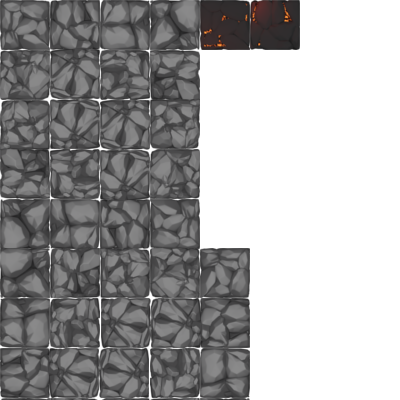
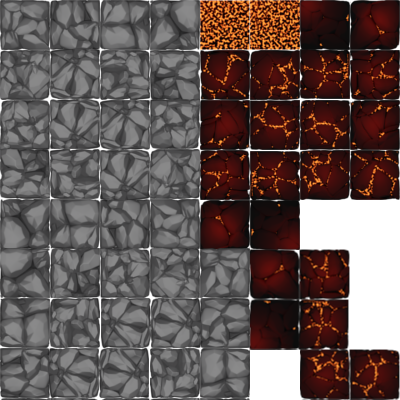
changement de fichier d'image et de carte + event

diff --git a/Spellington/src/ca/qc/bdeb/info204/spellington/gamestates/PlayState.java b/Spellington/src/ca/qc/bdeb/info204/spellington/gamestates/PlayState.java
@@ -26,6 +26,7 @@ public class PlayState extends BasicGameState {
     private TiledMap map;
     private Spellington spellington;
     private Tile[][] mapCollision;
+    private Tile[][] mapEvent;
 
     public static final Vector2D GRAV_FORCE = new Vector2D(0, 0.001f);
 
@@ -36,7 +37,7 @@ public class PlayState extends BasicGameState {
     public void init(GameContainer gc, StateBasedGame game) throws SlickException {
 
         //Very bad implementation of 
-        map = new TiledMap("src/resources/map/test_important.tmx");
+        map = new TiledMap("src/resources/map/mapTestGrotte.tmx");
         extractMapInfo();
         spellington = new Spellington(1500, 400);
     }
@@ -47,6 +48,8 @@ public class PlayState extends BasicGameState {
 
         g.setColor(Color.white);
         map.render(0, 0, 0);
+        map.render(0, 0, 2);
+        
 
         g.setColor(Color.blue);
         spellington.render(g);
@@ -84,10 +87,32 @@ public class PlayState extends BasicGameState {
         mapCollision = new Tile[18][32];
         for (int i = 0; i < map.getHeight(); i++) {
             for (int j = 0; j < map.getWidth(); j++) {
-                if (map.getTileId(j, i, 0) != 0) {
-                    mapCollision[i][j] = new Tile(50 * j, 50 * i, 50, 50, Tile.TileState.IMPASSABLE);
+                if (map.getTileId(j, i, 1) == 0) {
+                    mapCollision[i][j] = new Tile(50 * j, 50 * i, 50, 50, Tile.TileState.PASSABLE, Tile.TileEvent.NONE);
+                }if (map.getTileId(j, i, 1) == 1) {
+                    mapCollision[i][j] = new Tile(50 * j, 50 * i, 50, 50, Tile.TileState.IMPASSABLE, Tile.TileEvent.DAMAGE);
                 } else {
-                    mapCollision[i][j] = new Tile(50 * j, 50 * i, 50, 50, Tile.TileState.PASSABLE);
+                    mapCollision[i][j] = new Tile(50 * j, 50 * i, 50, 50, Tile.TileState.IMPASSABLE, Tile.TileEvent.NONE);
+                }
+            }
+        }
+        mapEvent = new Tile[18][32];
+        for (int i = 0; i < map.getHeight(); i++) {
+            for (int j = 0; j < map.getWidth(); j++) {
+                if (map.getTileId(j, i, 2) == 0) {
+                    mapEvent[i][j] = new Tile(50 * j, 50 * i, 50, 50, Tile.TileState.PASSABLE, Tile.TileEvent.NONE);
+                }if (map.getTileId(j, i, 2) == 1) {
+                    mapEvent[i][j] = new Tile(50 * j, 50 * i, 50, 50, Tile.TileState.PASSABLE, Tile.TileEvent.EXIT);
+                }if (map.getTileId(j, i, 2) == 2) {
+                    mapEvent[i][j] = new Tile(50 * j, 50 * i, 50, 50, Tile.TileState.PASSABLE, Tile.TileEvent.SPAWN);
+                }if (map.getTileId(j, i, 2) == 3) {
+                    mapEvent[i][j] = new Tile(50 * j, 50 * i, 50, 50, Tile.TileState.PASSABLE, Tile.TileEvent.SPAWN);
+                }if (map.getTileId(j, i, 2) == 4) {
+                    mapEvent[i][j] = new Tile(50 * j, 50 * i, 50, 50, Tile.TileState.PASSABLE, Tile.TileEvent.SPAWN);
+                }if (map.getTileId(j, i, 2) == 5) {
+                    mapEvent[i][j] = new Tile(50 * j, 50 * i, 50, 50, Tile.TileState.PASSABLE, Tile.TileEvent.LEVER);
+                } else {
+                    mapEvent[i][j] = new Tile(50 * j, 50 * i, 50, 50, Tile.TileState.PASSABLE, Tile.TileEvent.NONE);
                 }
             }
         }

diff --git a/Spellington/src/ca/qc/bdeb/info204/spellington/gameentities/Tile.java b/Spellington/src/ca/qc/bdeb/info204/spellington/gameentities/Tile.java
@@ -12,11 +12,21 @@ public class Tile extends StaticEntity {
         PASSABLE,
         IMPASSABLE,
     }
+    public static enum TileEvent {
+        NONE,
+        DAMAGE,
+        SPAWN,
+        EXIT,
+        LEVER,
+    }
     private TileState tileState;
-
-    public Tile(float x, float y, float width, float height, TileState tileState) {
+    
+    private TileEvent tileEvent;
+    
+    public Tile(float x, float y, float width, float height, TileState tileState, TileEvent tileEvent) {
         super(x, y, width, height);
         this.tileState = tileState;
+        this.tileEvent = tileEvent;
     }
 
     public TileState getTileState() {
